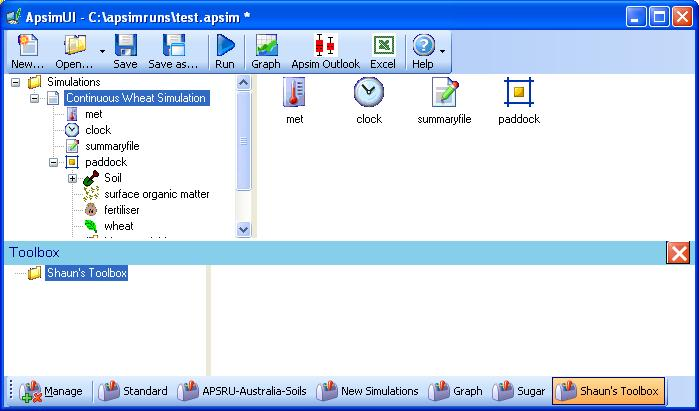
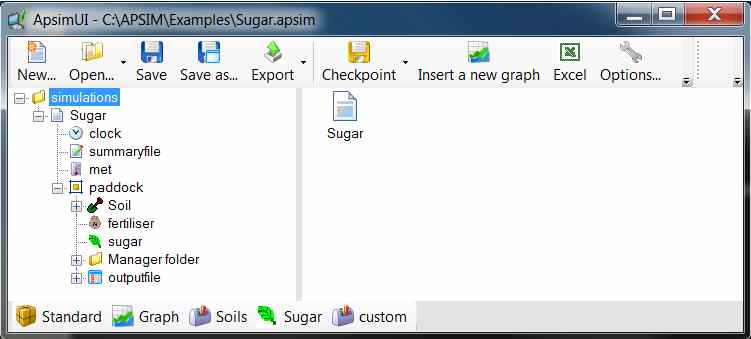
Updated How-To #3 with images reflecting GUI in 7.3. bugid: 1059

diff --git a/Documentation/3 How To/Create your own or Add someones toolbox.htm b/Documentation/3 How To/Create your own or Add someones toolbox.htm
@@ -1,57 +1,53 @@
 <!DOCTYPE HTML PUBLIC "-//W3C//DTD HTML 4.0 Transitional//EN">
-<HTML><HEAD><TITLE>APSIM Training Package</TITLE>
-<META http-equiv=content-type content="text/html; charset=ISO-8859-1"><LINK 
-href="../../ApsimWebStyle.css"
-type=text/css rel=stylesheet>
-<META content="MSHTML 6.00.2900.3314" name=GENERATOR></HEAD>
-<BODY>
+<html><head><title>APSIM Training Package</title>
 
-<H1>Create your own or Add someone else's toolbox</H1>
-<P>Quite often you may find yourself parameterising components the same way over 
+<meta http-equiv="content-type" content="text/html; charset=ISO-8859-1"><link href="../../ApsimWebStyle.css" type="text/css" rel="stylesheet">
+<meta content="MSHTML 6.00.2900.3314" name="GENERATOR"></head><body>
+
+<h1>Create your own or Add someone else's toolbox</h1>
+<p>Quite often you may find yourself parameterising components the same way over 
 and over again in your simulations. The user interface allows you to easily 
 reuse these components in many simulations via your own toolboxes. You can 
 create your personal toolbox and then drag components or even entire simulations 
 to it. Next time you want to create a simulation or a part of a simulation, you 
-can then goto your toolbox and reuse entities that you've used before.</P>
-<P>Toolboxes can also allow you to save and reuse soils that you have created, 
-although these should be kept in a seperate toolbox to your simulations.</P>
-<P>You can also add toolboxes that other people have created, allowing you to 
-quickly and easily collaborate with colleagues.</P>
+can then goto your toolbox and reuse entities that you've used before.</p>
+<p>Toolboxes can also allow you to save and reuse soils that you have created, 
+although these should be kept in a seperate toolbox to your simulations.</p>
+<p>You can also add toolboxes that other people have created, allowing you to 
+quickly and easily collaborate with colleagues.</p>
 
 
 <h3>Create your own toolbox</h3>
-<P>To create a new empty toolbox, either for simulations or for soils, click the 
-<I>Manage</I> button on the toolbar at the bottom of the 
-window.</P>
-<P><IMG src="Create your own or Add someones toolbox_files/image1.jpg" 
-border=0></P>
+<p>To create a new empty toolbox, either for simulations or for soils, click the <i>Options</i> button on the toolbar at the top of the 
+window.</p>
+<p><img src="Create%20your%20own%20or%20Add%20someones%20toolbox_files/image1.jpg" border="0"></p>
 
  
-<p> Click the <I>Create a new empty toolbox</I> link.</P>
+<p> Click the <i>Create a new empty toolbox</i> link.</p>
 
-<P><IMG src="Create your own or Add someones toolbox_files/image2.jpg" 
-border=0></P>
+<p><img src="Create%20your%20own%20or%20Add%20someones%20toolbox_files/image2.jpg" border="0"></p>
 
-<P>The window will let you specify the location and filename for the new empty 
-toolbox. It is recommended that you keep your toolboxes in a folder <I>not</I> 
+<p>The window will let you specify the location and filename for the new empty 
+toolbox. It is recommended that you keep your toolboxes in a folder <i>not</i> 
 under the APSIM installation directory. Perhaps you could create a folder called 
-<I>c:/apsim_toolboxes</I> for storing these types of files. The filename that 
+<i>c:/apsim_toolboxes</i> for storing these types of files. The filename that 
 you use will become the toolbox name that is displayed on the bottom toolbar, so 
 choose something that is appropriate and preferably short. Save with an .XML 
 extension for a toolbox for simulations, or with .soils extension for a soils 
 toolbox (nb. for soils toolbox change "Save as type:" drop down list to "All 
-Files (*.*)" )</P>
-<P><IMG src="Create your own or Add someones toolbox_files/image3.jpg" 
-border=0></P>
-<P>In the "APSIM Toolbox Management" window you will now see your new toolbox added to 
-the list of toolboxes. Just click <I>OK</I></P>
-<P><IMG src="Create your own or Add someones toolbox_files/image4.jpg" 
-border=0></P>
-<P>Your toolbox will then be displayed on the bottom toolbar. You can then drag 
+Files (*.*)" )</p>
+<p><img src="Create%20your%20own%20or%20Add%20someones%20toolbox_files/image3.jpg" border="0"></p>
+<p>Back at the options screen, click <span style="font-style: italic;">Add a toolbox</span> and select the file you just created.<br>
+</p>
+<p>You will now see your new toolbox added to 
+the list of toolboxes. Just click <i>OK</i></p>
+
+<p><img src="Create%20your%20own%20or%20Add%20someones%20toolbox_files/image4.jpg" border="0"></p>
+<p>Your toolbox will then be displayed on the bottom toolbar. You can then drag 
 components or entire simulations to it or soils you have created. Toolboxes are 
 saved automatically when they are closed or when the user interface is shut 
-down.</P>
-<P><IMG src="Create your own or Add someones toolbox_files/image5.jpg" border=0></P>
+down.</p>
+<p><img src="Create%20your%20own%20or%20Add%20someones%20toolbox_files/image5.jpg" border="0"></p>
 
 <h3>Add someone else's toolbox</h3>
  
@@ -64,4 +60,4 @@ down.</P>
  saved the .xml or .soils file that you wish to add.</p>
  
  
-<BR><BR></BODY></HTML>
+<br><br></body></html>
